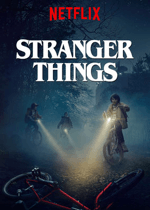
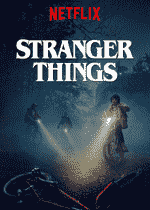
Improved accessibility and SEO by adding aria-labels and reducing image sizes

diff --git a/index.html b/index.html
@@ -3,6 +3,11 @@
   <head>
     <meta charset="UTF-8" />
     <meta name="viewport" content="width=device-width, initial-scale=1.0" />
+    <meta
+      name="description"
+      content="netflix is a streaming service that offers a wide variety of award-winning TV shows, movies, anime, documentaries, and more on thousands of internet-connected ...
+    "
+    />
     <script
       type="module"
       src="https://unpkg.com/ionicons@7.1.0/dist/ionicons/ionicons.esm.js"
@@ -24,11 +29,17 @@
         <p class="logo">NETFLIX</p>
         <div>
           <div class="lang">
-            <ion-icon name="language-outline" class="lang-icon"></ion-icon>
-            <select>
-              <option value="English">English</option>
-              <option value="Hindi">Hindi</option>
-            </select>
+            <ion-icon
+              name="language-outline"
+              class="lang-icon"
+              aria-hidden="true"
+            ></ion-icon>
+            <label>
+              <select aria-label="Choose your language">
+                <option value="English">English</option>
+                <option value="Hindi">Hindi</option>
+              </select>
+            </label>
           </div>
           <button class="sign-btn">Sign In</button>
         </div>
@@ -45,10 +56,11 @@
           <input
             type="text"
             class="hero-input"
+            aria-label="Email or mobile number"
             placeholder="Email or mobile number"
             required
           />
-          <button class="hero-btn">
+          <button class="hero-btn" aria-label="Get started">
             Get Started
             <ion-icon
               class="hero-icon"
@@ -71,8 +83,17 @@
           </p>
         </div>
         <div class="img-col">
-          <img src="Img/tv.png" alt="tv image" class="tv-img" />
-          <video class="video" autoplay muted loop>
+          <picture>
+            <source srcset="Img/tv.webp" type="image/webp" />
+            <img src="Img/tv.png" alt="tv image" class="tv-img" />
+          </picture>
+          <video
+            class="video"
+            autoplay
+            muted
+            loop
+            aria-label="A preview of Netflix content playing on a TV"
+          >
             <source src="Img/preview.m4v" />
           </video>
         </div>
@@ -81,8 +102,18 @@
 
       <div class="feature-2">
         <div class="img-col">
-          <img src="Img/download.jpg" alt="Download Example" class="img" />
-          <div class="download-preview">
+          <picture>
+            <source srcset="Img/download.webp" type="image/webp" />
+            <img
+              src="Img/download.jpg"
+              alt="Downloading Netflix content on a device"
+              class="img"
+            />
+          </picture>
+          <div
+            class="download-preview"
+            aria-label="Download preview for Stranger Things"
+          >
             <img
               src="Img/boxshot.png"
               alt="stranger things movie"
@@ -120,7 +151,11 @@
           </p>
         </div>
         <div class="img-col">
-          <img src="Img/video.png" alt="Tv image" class="tv-frame" />
+          <img
+            src="Img/video.png"
+            alt="Netflix streaming on multiple devices"
+            class="tv-frame"
+          />
           <video autoplay loop muted class="ayan">
             <source src="Img/video.m4v" />
           </video>
@@ -130,11 +165,14 @@
 
       <div class="feature-4">
         <div class="img-col">
-          <img
-            src="Img/children.png"
-            alt="Children Cartoon"
-            class="Child-img"
-          />
+          <picture>
+            <source srcset="Img/children.webp" type="image/webp" />
+            <img
+              src="Img/children.jpg"
+              alt="Netflix Kids profile with cartoons"
+              class="Child-img"
+            />
+          </picture>
         </div>
         <div class="text-col">
           <h3 class="subheading">Create profiles for kids</h3>
@@ -266,7 +304,6 @@
             </p>
           </div>
         </div>
-        
       </div>
     </section>
 
@@ -274,29 +311,33 @@
 
     <footer class="footer">
       <p class="call">Questions? Call 000-800-919-1694</p>
-      <div class="footer-links">
-        <a href="">FAQ</a>
-        <a href="">Help Centre</a>
-        <a href="">Account</a>
-        <a href="">Media Centre</a>
-        <a href="">Investor Relations</a>
-        <a href="">Jobs</a>
-        <a href="">Ways to Watch</a>
-        <a href="">Terms of Use</a>
-        <a href="">Privacy</a>
-        <a href="">Cookie Preferences</a>
-        <a href="">Corporate Information</a>
-        <a href="">Contact Us</a>
-        <a href="">Speed Test</a>
-        <a href="">Legal Notices</a>
-        <a href="">Only on Netflix</a>
-      </div>
+      <nav class="footer-links" aria-label="Footer navigation">
+        <a href="#" aria-label="Frequently Asked Questions">FAQ</a>
+        <a href="#" aria-label="Help Centre">Help Centre</a>
+        <a href="#" aria-label="Account Details">Account</a>
+        <a href="#" aria-label="Media Centre">Media Centre</a>
+        <a href="#" aria-label="Investor Relations">Investor Relations</a>
+        <a href="#" aria-label="Job Opportunities">Jobs</a>
+        <a href="#" aria-label="Ways to Watch Netflix">Ways to Watch</a>
+        <a href="#" aria-label="Terms of Use">Terms of Use</a>
+        <a href="#" aria-label="Privacy Policy">Privacy</a>
+        <a href="#" aria-label="Cookie Preferences">Cookie Preferences</a>
+        <a href="#" aria-label="Corporate Information">Corporate Information</a>
+        <a href="#" aria-label="Contact Us">Contact Us</a>
+        <a href="#" aria-label="Speed Test">Speed Test</a>
+        <a href="#" aria-label="Legal Notices">Legal Notices</a>
+        <a href="#" aria-label="Exclusive Content Only on Netflix"
+          >Only on Netflix</a
+        >
+      </nav>
       <div class="lang">
         <ion-icon name="language-outline" class="lang-icon"></ion-icon>
-        <select>
-          <option value="English">English</option>
-          <option value="Hindi">Hindi</option>
-        </select>
+        <label>
+          <select aria-label="Language selection">
+            <option value="English">English</option>
+            <option value="Hindi">Hindi</option>
+          </select>
+        </label>
       </div>
       <p class="ind">Netflix India</p>
     </footer>
